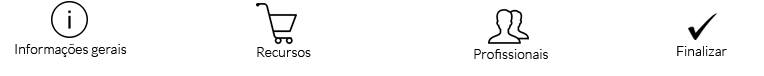
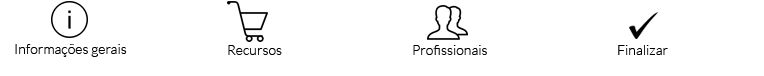
v 0.27

diff --git a/js/src/controller/userUiControllers.js b/js/src/controller/userUiControllers.js
@@ -202,12 +202,11 @@ $("#estimar").click(function(e) {
 
 
 $("#avancar1").click(function(e) {
-	console.log('teste');
      $("#tela1").hide();
 	  $("html, body").animate({ scrollTop: 0 }, "slow");
 	 $("#home-simulador").fadeIn();
 	$("#voltar-button").hide();
-	 
+    $('#image-header').attr('src', 'img/etapas-2.png');
 });
 
 }

diff --git a/simulador.html b/simulador.html
@@ -28,8 +28,8 @@
 
 </head>
 <body >
-
-<center><img src="img/etapas.png"></center>
+<br>
+<center><img src="img/etapas-1.png" id="image-header"></center>
 <div id="tela1">
 <center><h1>Informações básicas</h1></center>
 <form id="dados-principais">
